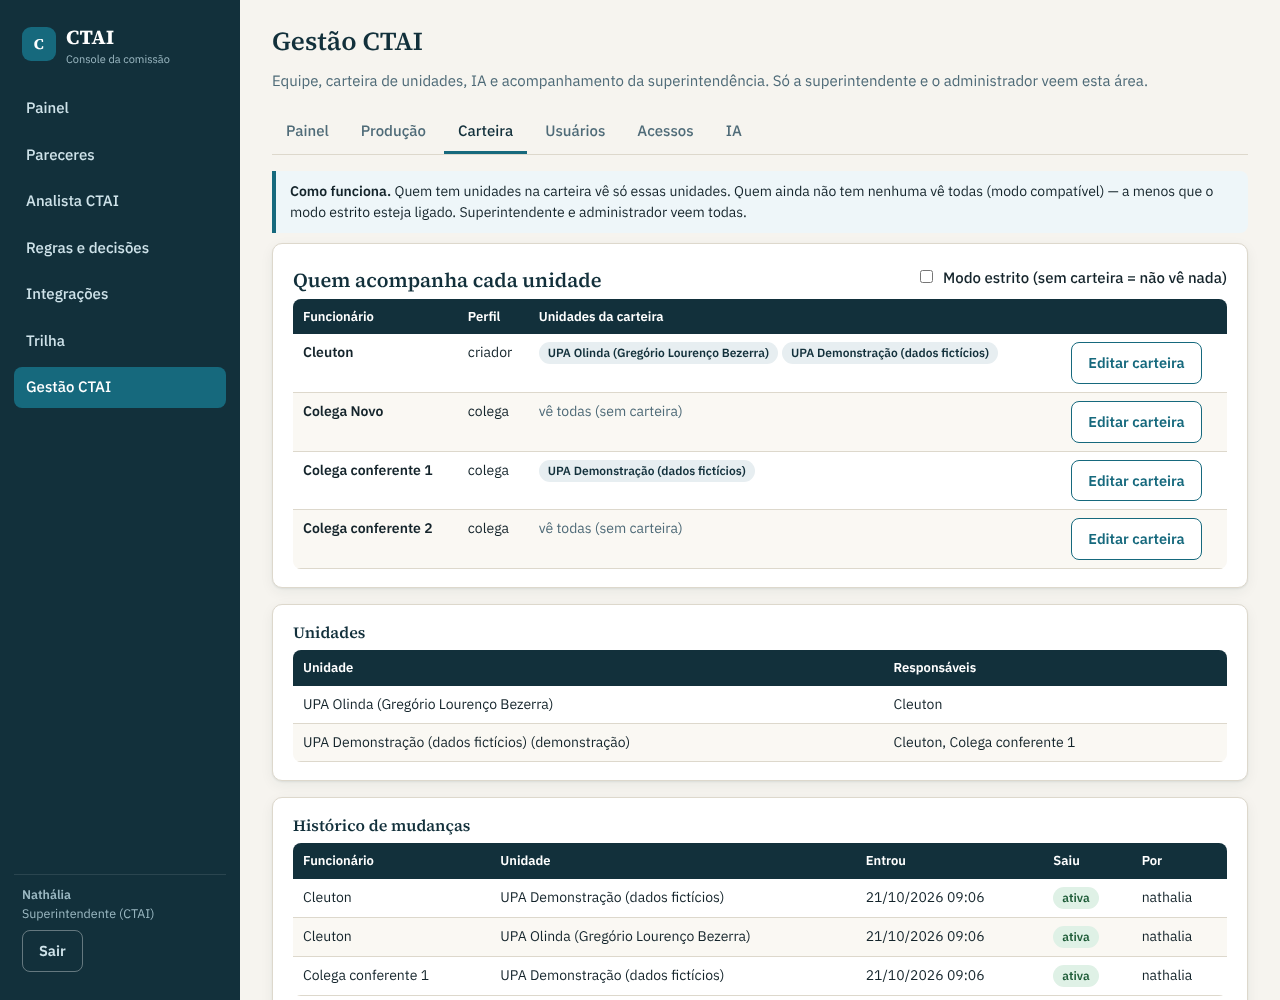
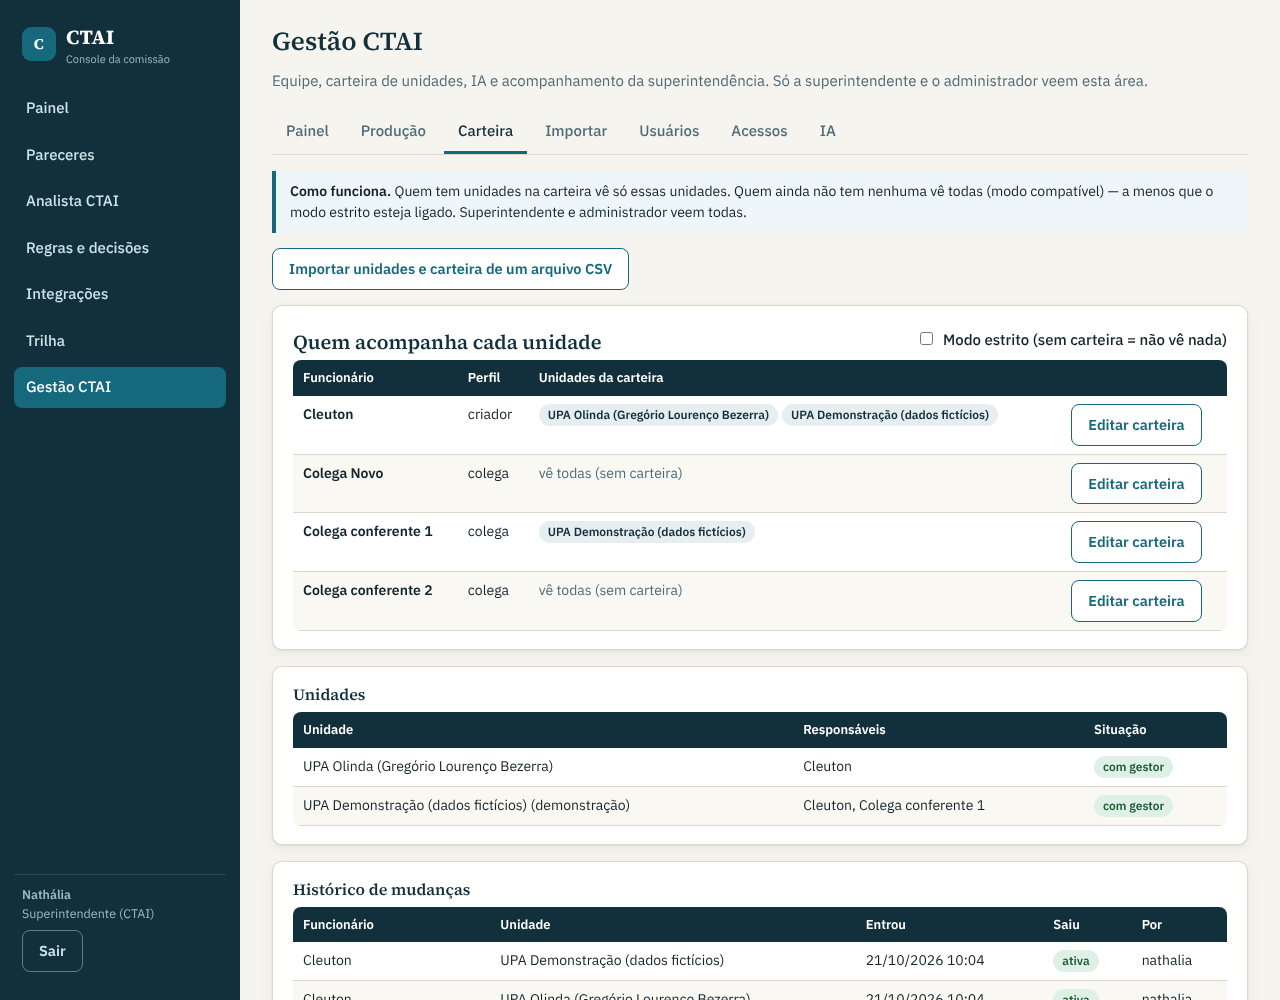
Gestão CTAI: tela Importar, fila 'aguardando gestor' no painel, e2e, docs
Claude-Session: https://claude.ai/code/session_01TePQBrxAiH7ZoxMsBLHw5s

Changed region(s): [[0.2188, 0.248, 0.9688, 1.0], [0.5, 0.124, 0.625, 0.155], [0.4375, 0.124, 0.4688, 0.155]]

diff --git a/public/js/gestao.js b/public/js/gestao.js
@@ -2,7 +2,7 @@
   'use strict';
   // Gestão CTAI: painel da superintendente, produção, carteira, usuários e IA. Só superintendente e administrador.
   const { h, api, fmt, toast, janela, confirmar, selo, aviso, tabela, montar } = window.CTAI;
-  const ABAS = [['', 'Painel'], ['producao', 'Produção'], ['carteira', 'Carteira'], ['usuarios', 'Usuários'], ['acessos', 'Acessos'], ['ia', 'IA']];
+  const ABAS = [['', 'Painel'], ['producao', 'Produção'], ['carteira', 'Carteira'], ['importar', 'Importar'], ['usuarios', 'Usuários'], ['acessos', 'Acessos'], ['ia', 'IA']];
   const kpi = (r, v, nota, tom) => h('div', { class: 'kpi' + (tom ? ' ' + tom : '') }, h('div', { class: 'r' }, r), h('div', { class: 'num-grande' }, String(v)), nota ? h('div', { class: 'r' }, nota) : null);
   const F = { trimestre: '', contrato: '', usuario_id: '' }; // filtros lembrados enquanto a página está aberta
   const qs = (o) => { const p = new URLSearchParams(); for (const k of Object.keys(o)) if (o[k]) p.set(k, o[k]); const s = p.toString(); return s ? '?' + s : ''; };
@@ -42,7 +42,8 @@
         kpi('Prazos vencidos', prz.vencido, prz.a_vencer + ' a vencer · ' + prz.atraso + ' com atraso', prz.vencido ? 'alta' : ''),
         kpi('Achados abertos', k.achados_abertos, k.achados_vencidos + ' vencido(s)', k.achados_vencidos ? 'alta' : ''),
         kpi('Pareceres', k.pareceres_rascunho + ' / ' + k.pareceres_congelados, 'rascunho / congelados'),
-        kpi('Sem carteira', k.sem_carteira, 'unidades', k.sem_carteira ? 'atencao' : '')),
+        kpi('Sem carteira', k.sem_carteira, 'unidades', k.sem_carteira ? 'atencao' : ''),
+        kpi('Sem gestor', k.sem_gestor, 'aguardando gestor', k.sem_gestor ? 'atencao' : '')),
       h('div', { class: 'cartao' }, h('h2', { style: 'margin-top:0' }, 'Alertas'), linhaAlertas),
       p.sem_carteira.length ? h('div', { class: 'cartao' }, h('h2', { style: 'margin-top:0' }, 'Unidades sem carteira'),
         h('p', { class: 'mudo peq' }, 'O envio dessas unidades não tem funcionário responsável. Escolha quem acompanha:'),
@@ -51,6 +52,9 @@
           return h('div', { class: 'linha sem-carteira' }, h('strong', null, u.unidade), u.demo ? selo('demonstração', 'demo') : null, sel,
             h('button', { class: 'sec', onclick: async () => { try { await api('POST', '/api/gestao/carteira/atribuir', { usuario_id: Number(sel.value), contrato_id: u.contrato_id, motivo: 'Distribuição pelo painel' }); toast('Unidade atribuída.'); refazer(); } catch (e) { toast(e.message, true); } } }, 'Atribuir'));
         })) : null,
+      p.sem_gestor.length ? h('div', { class: 'cartao', id: 'fila-sem-gestor' }, h('h2', { style: 'margin-top:0' }, 'Unidades aguardando gestor (' + p.sem_gestor.length + ')'),
+        h('p', { class: 'mudo peq' }, 'Ninguém da unidade foi cadastrado para usar o Portal da Unidade. Cadastre o gestor em Usuários (perfil gestor de unidade).'),
+        h('div', null, p.sem_gestor.map((u) => h('span', { class: 'selo atencao', style: 'margin:0 4px 4px 0' }, u.unidade + (u.municipio ? ' · ' + u.municipio : ''))))) : null,
       h('div', { class: 'unidades-grid' }, p.unidades.length ? p.unidades.map((u) => cartaoUnidade(u, p)) : h('div', { class: 'cartao' }, h('p', { class: 'mudo' }, 'Nenhuma unidade para esse filtro.'))),
       h('div', { class: 'cartao' }, h('h2', { style: 'margin-top:0' }, 'Divergências recorrentes por indicador'),
         h('p', { class: 'mudo peq' }, 'Itens do IGQ que voltam a divergir em mais de uma competência são candidatos a orientação direta à unidade.'),
@@ -116,10 +120,11 @@
     };
     montar(cabecalho('carteira'),
       aviso('info', h('strong', null, 'Como funciona. '), c.regra),
+      h('p', null, h('a', { href: '#/gestao/importar', class: 'btn sec', id: 'ir-importar' }, 'Importar unidades e carteira de um arquivo CSV')),
       h('div', { class: 'cartao' }, h('div', { class: 'linha espaco' }, h('h2', { style: 'margin:0' }, 'Quem acompanha cada unidade'),
         h('label', { class: 'ck' }, h('input', Object.assign({ type: 'checkbox', id: 'cart-estrito', onchange: async (e) => { try { await api('PUT', '/api/gestao/carteira-modo', { estrita: e.target.checked }); toast(e.target.checked ? 'Modo estrito ligado.' : 'Modo estrito desligado.'); carteira(); } catch (x) { toast(x.message, true); } } }, c.estrita ? { checked: true } : {})), ' Modo estrito (sem carteira = não vê nada)')),
         tabela([{ t: 'Funcionário' }, { t: 'Perfil' }, { t: 'Unidades da carteira' }, { t: '' }], c.funcionarios.map((f) => [h('strong', null, f.nome), f.perfil, f.unidades.length ? f.unidades.map((id) => { const u = c.unidades.find((x) => x.contrato_id === id); return h('span', { class: 'selo', style: 'margin-right:4px' }, u ? u.unidade : id); }) : h('span', { class: 'mudo' }, f.ativo ? 'vê todas (sem carteira)' : 'desativado'), h('button', { class: 'sec', id: 'cart-ed-' + f.login, onclick: () => editar(f) }, 'Editar carteira')]))),
-      h('div', { class: 'cartao' }, h('h3', null, 'Unidades'), tabela([{ t: 'Unidade' }, { t: 'Responsáveis' }], c.unidades.map((u) => [u.unidade + (u.demo ? ' (demonstração)' : ''), u.responsaveis.length ? u.responsaveis.map((r) => r.nome).join(', ') : selo('sem carteira', 'atencao')]))),
+      h('div', { class: 'cartao' }, h('h3', null, 'Unidades'), tabela([{ t: 'Unidade' }, { t: 'Responsáveis' }, { t: 'Situação' }], c.unidades.map((u) => [u.unidade + (u.municipio ? ' · ' + u.municipio : '') + (u.demo ? ' (demonstração)' : ''), u.responsaveis.length ? u.responsaveis.map((r) => r.nome).join(', ') : selo('sem carteira', 'atencao'), u.sem_gestor ? selo('aguardando gestor', 'atencao') : selo('com gestor', 'ok')]))),
       h('div', { class: 'cartao' }, h('h3', null, 'Histórico de mudanças'), tabela([{ t: 'Funcionário' }, { t: 'Unidade' }, { t: 'Entrou' }, { t: 'Saiu' }, { t: 'Por' }],
         hist.historico.slice(0, 40).map((x) => [x.nome, x.unidade || x.contrato_id, fmt.data(x.desde), x.ate ? fmt.data(x.ate) : h('span', { class: 'selo ok' }, 'ativa'), x.ate ? (x.removido_por || '') : (x.atribuido_por || '')]), { vazio: 'Nenhuma atribuição ainda.' })));
   }
@@ -225,11 +230,91 @@
       e.provedores.map(cartao));
   }
 
+
+  // ---------- Importar unidades e carteira (CSV) ----------
+  const E = { csv: '', nomeArquivo: '', modo: 'acrescentar', ignorar: false, decisoes: { conflitos: {}, analistas: {} }, previa: null, ultimo: null };
+  const ROT_TIPO = { UPA: 'UPA', UPAE: 'UPAE', HOSPITAL: 'Hospital' };
+  async function importar() {
+    const ref = async () => {
+      if (!E.csv) { E.previa = null; return desenhar(); }
+      try { E.previa = await api('POST', '/api/gestao/carteira/importar/previa', { csv: E.csv, modo: E.modo, ignorarErros: E.ignorar, decisoes: E.decisoes }); } catch (e) { E.previa = null; toast(e.message, true); }
+      desenhar();
+    };
+    const hist = await api('GET', '/api/gestao/carteira/importar/historico').catch(() => ({ importacoes: [] }));
+    const arquivo = h('input', { type: 'file', id: 'imp-arquivo', accept: '.csv,text/csv,text/plain', onchange: async (e) => {
+      const f = e.target.files[0]; if (!f) return;
+      E.csv = await f.text(); E.nomeArquivo = f.name; E.decisoes = { conflitos: {}, analistas: {} }; E.ultimo = null; ref();
+    } });
+    function desenhar() {
+      const p = E.previa;
+      const modo = h('select', { id: 'imp-modo', onchange: (e) => { E.modo = e.target.value; ref(); } },
+        [['acrescentar', 'Acrescentar às carteiras'], ['substituir', 'Substituir a carteira de quem está no arquivo']].map(([v, t]) => h('option', Object.assign({ value: v }, E.modo === v ? { selected: true } : {}), t)));
+      const ign = h('input', Object.assign({ type: 'checkbox', id: 'imp-ignorar', onchange: (e) => { E.ignorar = e.target.checked; ref(); } }, E.ignorar ? { checked: true } : {}));
+      const blocos = [];
+      if (p) {
+        const r = p.resumo;
+        blocos.push(h('div', { class: 'kpis' }, kpi('Linhas', r.linhas, r.vazias + ' em branco'), kpi('Unidades', r.unidades, r.novas + ' nova(s) · ' + r.jaExistiam + ' já cadastrada(s)'),
+          kpi('Entram na carteira', r.entradas, r.saidas + ' saem'), kpi('Com erro', r.comErro, E.ignorar ? 'serão ignoradas' : 'impedem gravar', r.comErro ? 'alta' : ''), kpi('Sem analista', r.semAnalista, 'ficam sem carteira', r.semAnalista ? 'atencao' : '')));
+        blocos.push(h('div', { class: 'cartao' }, h('h3', null, 'Por tipo e por analista'),
+          h('p', null, ['UPA', 'UPAE', 'HOSPITAL'].map((t) => h('span', { class: 'selo', style: 'margin-right:6px' }, ROT_TIPO[t] + ': ' + p.porTipo[t]))),
+          tabela([{ t: 'Analista' }, { t: 'UPA', n: true }, { t: 'UPAE', n: true }, { t: 'Hospital', n: true }, { t: 'Total', n: true }, { t: '' }], p.porAnalista.map((a) => [a.nome, a.UPA, a.UPAE, a.HOSPITAL, h('strong', null, a.total), a.novo ? selo('novo usuário', 'atencao') : '']), { vazio: 'Nenhuma atribuição.' })));
+        if (p.analistas.some((a) => a.situacao !== 'existe')) {
+          blocos.push(h('div', { class: 'cartao', id: 'imp-analistas' }, h('h3', null, 'Analistas que não puderam ser encontrados'),
+            p.analistas.filter((a) => a.situacao !== 'existe').map((a) => a.situacao === 'nao_existe'
+              ? h('div', { class: 'linha' }, h('strong', null, a.valor), h('span', { class: 'mudo peq' }, 'não existe · login proposto ' + a.loginProposto), h('select', { 'aria-label': 'Decisão para ' + a.valor, class: 'imp-dec-analista', onchange: (e) => { E.decisoes.analistas[a.valor] = e.target.value; ref(); } },
+                [['', 'Decidir…'], ['criar', 'Criar usuário (criador, senha temporária)'], ['pular', 'Pular este analista']].map(([v, t]) => h('option', Object.assign({ value: v }, (a.decisao || '') === v ? { selected: true } : {}), t))))
+              : h('div', { class: 'linha' }, h('strong', null, a.valor), selo(a.problema, 'alta')))));
+        }
+        if (p.conflitos.length) {
+          blocos.push(h('div', { class: 'cartao', id: 'imp-conflitos' }, h('h3', null, 'Unidade em mais de uma carteira'),
+            h('p', { class: 'mudo peq' }, 'Escolha entre dividir (todos ficam como responsáveis) ou manter só um responsável.'),
+            p.conflitos.map((c) => h('div', { class: 'linha' }, h('strong', null, c.unidade), h('span', { class: 'mudo peq' }, 'hoje/arquivo: ' + [...new Set(c.atuais.concat(c.novos))].join(', ')),
+              h('select', { 'aria-label': 'Decisão para ' + c.unidade, class: 'imp-dec-conflito', onchange: (e) => { E.decisoes.conflitos[c.key] = e.target.value; ref(); } },
+                [['', 'Decidir…']].concat(c.opcoes.map((o) => [o, o === 'dividir' ? 'Dividir (co-responsáveis)' : 'Manter só ' + o])).map(([v, t]) => h('option', Object.assign({ value: v }, (c.decisao || '') === v ? { selected: true } : {}), t)))))));
+        }
+        if (p.erros.length || p.avisos.length) {
+          blocos.push(h('div', { class: 'cartao' }, h('h3', null, 'Relatório de problemas'),
+            p.erros.length ? tabela([{ t: 'Linha', n: true }, { t: 'Erro' }], p.erros.map((e) => [e.linha, e.motivo])) : null,
+            p.avisos.length ? tabela([{ t: 'Linha', n: true }, { t: 'Aviso' }], p.avisos.map((e) => [e.linha, e.motivo])) : null));
+        }
+        blocos.push(h('div', { class: 'cartao' }, h('h3', null, 'Unidades do arquivo'),
+          tabela([{ t: 'Unidade' }, { t: 'Município' }, { t: 'Situação' }, { t: 'Responsáveis' }], p.unidades.map((u) => [u.unidade, u.municipio || '—', u.existente ? selo('já cadastrada', 'ok') : selo('nova · aguardando gestor', 'atencao'), u.conflito ? selo('decidir', 'alta') : (u.analistas.join(', ') || '—')]))));
+        const pend = p.pendencias.filter((x) => !x.bloqueia).length;
+        blocos.push(h('div', { class: 'linha' }, h('button', Object.assign({ id: 'imp-gravar', onclick: gravar }, p.podeGravar ? {} : { disabled: true }), 'Gravar importação'),
+          h('span', { class: 'mudo peq' }, p.podeGravar ? 'Tudo será gravado de uma vez (ou nada).' : (p.pendencias.some((x) => x.bloqueia) ? 'Corrija os analistas indicados no arquivo.' : (pend ? 'Faltam ' + pend + ' decisão(ões).' : (p.resumo.comErro ? 'Corrija as linhas com erro ou marque "ignorar linhas com erro".' : 'Nada para gravar.'))))));
+      }
+      if (E.ultimo) {
+        const u = E.ultimo;
+        blocos.unshift(aviso('ok', h('strong', null, 'Importação #' + u.importacao_id + ' gravada. '), u.unidades_novas + ' unidade(s) criada(s) aguardando gestor, ' + u.entradas + ' entrada(s) e ' + u.saidas + ' saída(s) de carteira' + (u.analistas_criados ? ', ' + u.analistas_criados + ' usuário(s) criado(s) com a senha temporária ' + u.senhaTemporaria : '') + '.'));
+      }
+      montar(cabecalho('importar'),
+        aviso('info', h('strong', null, 'Como funciona. '), 'Carregue um CSV (UTF-8, separado por ; ou ,) com as colunas tipo (UPA, UPAE ou Hospital), unidade, municipio (opcional) e analista (login ou nome; vários separados por |). A unidade é identificada por tipo + nome + município. Nada é gravado antes de você conferir a prévia.'),
+        h('div', { class: 'cartao' },
+          h('div', { class: 'linha' }, h('a', { href: '/api/gestao/carteira/importar/modelo.csv', download: 'modelo-importacao-carteira.csv', class: 'btn sec', id: 'imp-modelo' }, 'Baixar modelo (dados fictícios)')),
+          h('div', { class: 'campo' }, h('label', { for: 'imp-arquivo' }, 'Arquivo CSV'), arquivo, E.nomeArquivo ? h('span', { class: 'mudo peq' }, E.nomeArquivo) : null),
+          h('div', { class: 'campo' }, h('label', { for: 'imp-modo' }, 'Modo'), modo),
+          h('label', { class: 'ck' }, ign, ' Ignorar linhas com erro (grava só as boas)')),
+        blocos,
+        h('div', { class: 'cartao' }, h('h3', null, 'Importações anteriores'), tabela([{ t: 'Nº', n: true }, { t: 'Quando' }, { t: 'Por' }, { t: 'Modo' }, { t: 'Resultado' }],
+          hist.importacoes.map((i) => [i.importacao_id, fmt.data(i.em), i.quem, i.modo, i.resumo ? (i.resumo.unidades_novas + ' nova(s), ' + i.resumo.entradas + ' entrada(s), ' + i.resumo.saidas + ' saída(s)') : '—']), { vazio: 'Nenhuma importação ainda.' })));
+      const el = document.getElementById('imp-arquivo'); void el;
+    }
+    async function gravar() {
+      try {
+        const u = await api('POST', '/api/gestao/carteira/importar/gravar', { csv: E.csv, modo: E.modo, ignorarErros: E.ignorar, decisoes: E.decisoes });
+        E.ultimo = u; E.csv = ''; E.nomeArquivo = ''; E.previa = null; E.decisoes = { conflitos: {}, analistas: {} };
+        toast('Importação gravada.'); importar();
+      } catch (e) { toast(e.message, true); }
+    }
+    desenhar();
+  }
+
   async function aba() {
     const h2 = location.hash.replace(/^#\/gestao\/?/, '');
     if (!F.lista) { try { F.lista = (await api('GET', '/api/gestao/painel?trimestre=' + (F.trimestre || ''))).trimestres; } catch (_) { F.lista = []; } }
     if (h2 === 'producao') return producao();
     if (h2 === 'carteira') return carteira();
+    if (h2 === 'importar') return importar();
     if (h2 === 'usuarios') return usuarios();
     if (h2 === 'acessos') return acessos();
     if (h2 === 'ia') return ia();

diff --git a/test/e2e/run.js b/test/e2e/run.js
@@ -281,6 +281,22 @@ let base;
     const csvAc = await sup.evaluate(async () => { const r = await fetch(document.querySelector('#ga-csv').getAttribute('href')); return { ok: r.ok, t: (await r.text()).slice(0, 80) }; });
     assert.ok(csvAc.ok && /data_hora;evento/.test(csvAc.t));
     log('equipe da unidade pelo gestor e aba Acessos (CSV/PDF)');
+    // Importação em lote de unidades e carteira (arquivo fictício)
+    const arqImp = path.join(S.dir, 'lote-ficticio.csv');
+    fs.writeFileSync(arqImp, ['tipo;unidade;municipio;analista', 'UPA;Exemplo Alfa;Cidade Alfa;colega1', 'UPAE;Exemplo Alfa;Cidade Alfa;colega1', 'Hospital;Exemplo Beta;Cidade Beta;colega2', 'UPA;Exemplo Beta;Cidade Beta;Pessoa Nova Ficticia',
+      'UPA;Exemplo Gama;Cidade Gama;colega1', 'UPA;Exemplo Gama;Cidade Gama;colega2', 'Clinica;Exemplo Erro;;colega1'].join('\n'));
+    await ir(sup, '#/gestao/importar', '#imp-arquivo');
+    await sup.setInputFiles('#imp-arquivo', arqImp);
+    await sup.waitForSelector('#imp-conflitos', { timeout: 8000 });
+    assert.equal(await sup.locator('#imp-gravar').isDisabled(), true, 'não grava com decisões pendentes');
+    await sup.selectOption('.imp-dec-analista', 'criar'); await sup.waitForSelector('.imp-dec-conflito', { timeout: 8000 });
+    await sup.selectOption('.imp-dec-conflito', 'dividir'); await sup.waitForTimeout(400);
+    await sup.check('#imp-ignorar'); await sup.waitForFunction(() => !document.querySelector('#imp-gravar').disabled, null, { timeout: 8000 });
+    await sup.setViewportSize({ width: 1280, height: 1700 }); await limpa(sup); await sup.screenshot({ path: path.join(CAP, '26-gestao-importar.png') });
+    await sup.click('#imp-gravar'); await sup.waitForSelector('.aviso.ok >> text=Importação #', { timeout: 8000 });
+    await ir(sup, '#/gestao', 'text=Alertas'); await sup.waitForSelector('#fila-sem-gestor');
+    assert.match(await sup.textContent('#fila-sem-gestor'), /Exemplo Alfa/);
+    log('importação em lote da carteira e fila de unidades aguardando gestor');
     for (const p of paginas) assert.deepEqual(p.erros, [], 'erros de JavaScript na tela: ' + p.erros.join(' | '));
     console.log('\nE2E OK');
   } catch (e) {

diff --git a/public/sw.js b/public/sw.js
@@ -1,5 +1,5 @@
 /* Service worker: guarda só os arquivos estáticos (telas, fontes, estilos). Nenhuma resposta da API é guardada. */
-const VERSAO = 'ctai-v3';
+const VERSAO = 'ctai-v4';
 const ESTATICOS = ['/', '/unidade', '/ctai', '/css/app.css', '/js/core.js', '/js/login.js', '/js/unidade.js', '/js/ctai.js', '/js/gestao.js', '/icons/icon.svg'];
 self.addEventListener('install', (e) => { e.waitUntil(caches.open(VERSAO).then((c) => c.addAll(ESTATICOS).catch(() => {})).then(() => self.skipWaiting())); });
 self.addEventListener('activate', (e) => { e.waitUntil(caches.keys().then((ks) => Promise.all(ks.filter((k) => k !== VERSAO).map((k) => caches.delete(k)))).then(() => self.clients.claim())); });

diff --git a/docs/MANUAL-CTAI.md b/docs/MANUAL-CTAI.md
@@ -70,7 +70,7 @@ Cada competência com envio tem a aba **Checklist de recebimento** (console da C
 
 ## Gestão CTAI (superintendente e administrador)
 
-Menu **Gestão CTAI**, com seis abas (Painel, Produção, Carteira, Usuários, Acessos, IA). Só a superintendente e o administrador veem esta área; as outras pessoas da CTAI não têm o menu e recebem "sem acesso" se tentarem pelo endereço.
+Menu **Gestão CTAI**, com sete abas (Painel, Produção, Carteira, Importar, Usuários, Acessos, IA). Só a superintendente e o administrador veem esta área; as outras pessoas da CTAI não têm o menu e recebem "sem acesso" se tentarem pelo endereço.
 
 **Painel.** A visão da superintendente num só lugar. Filtros por **trimestre, unidade e funcionário**; botão **Exportar PDF** gera o mesmo painel em PDF.
 - Cartões: unidades, envios recebidos, incompletos e pendentes, prazos vencidos / a vencer / com atraso, achados abertos e vencidos, pareceres em rascunho e congelados, unidades sem carteira.
@@ -78,6 +78,7 @@ Menu **Gestão CTAI**, com seis abas (Painel, Produção, Carteira, Usuários, A
 - **Por unidade**: fase da conferência (aguardando envio, recebido, tratando divergências, minuta em elaboração, mesa de conferência, autorizado, anexado no SEI), prazos de cada mês, IGQ médio em pontos, percentual pago em média, comparação com o trimestre anterior, achados abertos e parecer.
 - **Divergências recorrentes por indicador**: itens que voltam em mais de uma competência.
 - **Unidades sem carteira**: o envio delas não tem responsável; escolha o funcionário e clique em Atribuir.
+- **Unidades aguardando gestor**: unidades cadastradas em que ninguém foi cadastrado como gestor da unidade (fase "Aguardando gestor", cartão "Sem gestor" e alerta). Saem da fila quando o gestor é criado em Usuários.
 
 **Produção.** Por funcionário e por período (trimestre ou todo o período), com filtro de unidade: itens conferidos na mesa, divergências tratadas, achados encaminhados / respondidos / descartados, minutas criadas e congeladas, tempo médio entre o recebimento do envio e a autorização do parecer, e a **carga atual** (unidades, divergências e achados abertos, minutas em andamento, conferências a fazer). Tudo sai de ações já registradas na trilha e no fluxo. **Não há monitoramento de digitação, de tela aberta nem de tempo online.**
 
@@ -86,6 +87,15 @@ Menu **Gestão CTAI**, com seis abas (Painel, Produção, Carteira, Usuários, A
 - quem ainda não tem nenhuma unidade vê todas (modo compatível); o **modo estrito** faz essa pessoa não ver nada até receber unidades;
 - superintendente e administrador veem todas;
 - cada mudança entra no **histórico** (quem, quando, motivo) e na trilha.
+
+**Importar (unidades e carteira em lote).** Para cadastrar de uma vez as unidades (UPA, UPAE, Hospital) e distribuí-las entre os analistas.
+1. Clique em **Baixar modelo** (dados fictícios) e preencha: `tipo` (UPA, UPAE ou Hospital), `unidade`, `municipio` (opcional) e `analista` (login ou nome; vários analistas na mesma unidade separados por `|`). CSV em UTF-8, separado por `;` ou `,`.
+2. Escolha o arquivo. A **prévia** mostra unidades por tipo e por analista, quantas são novas, quantas entram e saem de carteira e o **relatório de problemas** (linha e motivo). **Nada é gravado nesta etapa.**
+3. Decida o que a prévia pedir: **analista que não existe** (criar como criador, com a senha temporária, ou pular) e **unidade em duas carteiras** (dividir como co-responsáveis ou manter só um). Linha com erro (tipo inválido, unidade em branco) impede gravar, a não ser que marque **Ignorar linhas com erro**.
+4. **Modo**: *Acrescentar* soma às carteiras; *Substituir* faz a carteira de cada analista do arquivo ficar exatamente como o arquivo (quem não está no arquivo não é mexido).
+5. **Gravar importação**: tudo ou nada, numa única operação. Fica registrado quem importou, o resumo e cada entrada ou saída de carteira (histórico da aba Carteira, motivo "Importação em lote #n") e na trilha.
+
+Regras: a unidade é identificada por **tipo + nome + município** (UPA Caruaru e UPAE Caruaru são unidades diferentes; o relatório avisa nomes parecidos). Reimportar o mesmo arquivo não duplica unidade nem carteira. Linha repetida na mesma carteira é ignorada. Unidade nova nasce **sem gestor** (aguardando gestor, na fila do Painel) e sem regras do contrato, que são cadastradas depois. A superintendente nunca precisa mexer em banco ou arquivos do servidor.
 
 **Usuários.** Criar, editar nome e perfil, trocar senha (volta para a senha temporária e a pessoa troca no próximo acesso), ativar e desativar. Perfis: administrador, criador, colega, superintendente, gestor da unidade e responsável de setor. A superintendente não cria nem altera administradores. Tudo vai para a trilha; a senha nunca é gravada.
 

diff --git a/docs/STATUS.md b/docs/STATUS.md
@@ -20,9 +20,10 @@ Primeira versão para teste. Funciona de ponta a ponta com **dados fictícios**.
 | **Equipe pelo gestor da unidade** | cadastrar, fichas por pessoa, senha temporária, ativar/desativar, trocar responsável por ficha; sem alcance fora da própria unidade; trilha com quem fez | `test/equipe-acessos.test.js` + E2E |
 | **Aba Acessos** (Gestão CTAI) | entradas, falhas, bloqueios, saídas, origem, IP mascarado, agente, cadastros dos gestores; filtros; CSV e PDF; sem edição | `test/equipe-acessos.test.js` + E2E |
 | **Deploy no Render** (21/10/2026) | `render.yaml` (Docker, Starter, disco de 1 GB em `/dados`, saúde em `/api/saude`), `CTAI_IPS_INTERNOS` com IP de cliente seguro atrás de proxy (`CTAI_PROXY_SALTOS`, `CTAI_IP_CABECALHO`, `CTAI_PROXIES_CONFIAVEIS`), `/api/origem` para conferir, backup do banco pelo admin, guia `docs/GUIA-RENDER.md` | `test/exposicao-ips.test.js` (8: IP na lista, fora, forjado, indeterminado, IPv6/CIDR, proxies) |
+| **Importação em lote de unidades e carteira** (21/10/2026) | CSV (tipo, unidade, município, analista), modelo fictício, prévia sem gravar, relatório de problemas, decisões (analista inexistente, unidade em duas carteiras), modos acrescentar/substituir, gravação atômica, trilha e histórico, reimportação sem duplicar, unidade nova "aguardando gestor" na fila do Painel | `test/importacao-carteira.test.js` + E2E |
 | Dados de demonstração | contrato fictício, recriar e apagar | testes + E2E |
 
-Números: `npm test` = **91 testes, 0 falhas**. `npm run e2e` = fluxo completo no Chromium (unidade envia, PDF válido, CTAI recalcula, minuta, congelar, três pessoas conferem, superintendente autoriza, SEI do parecer registrado, trilha íntegra, número do SEI do relatório registrado pela unidade, dois canais e alerta de nova versão, sem erro de JavaScript nas telas percorridas). Capturas em `docs/capturas/`.
+Números: `npm test` = **101 testes, 0 falhas**. `npm run e2e` = fluxo completo no Chromium (unidade envia, PDF válido, CTAI recalcula, minuta, congelar, três pessoas conferem, superintendente autoriza, SEI do parecer registrado, trilha íntegra, número do SEI do relatório registrado pela unidade, dois canais e alerta de nova versão, sem erro de JavaScript nas telas percorridas). Capturas em `docs/capturas/`.
 
 ## Vagas (encaixes) deixadas prontas
 
